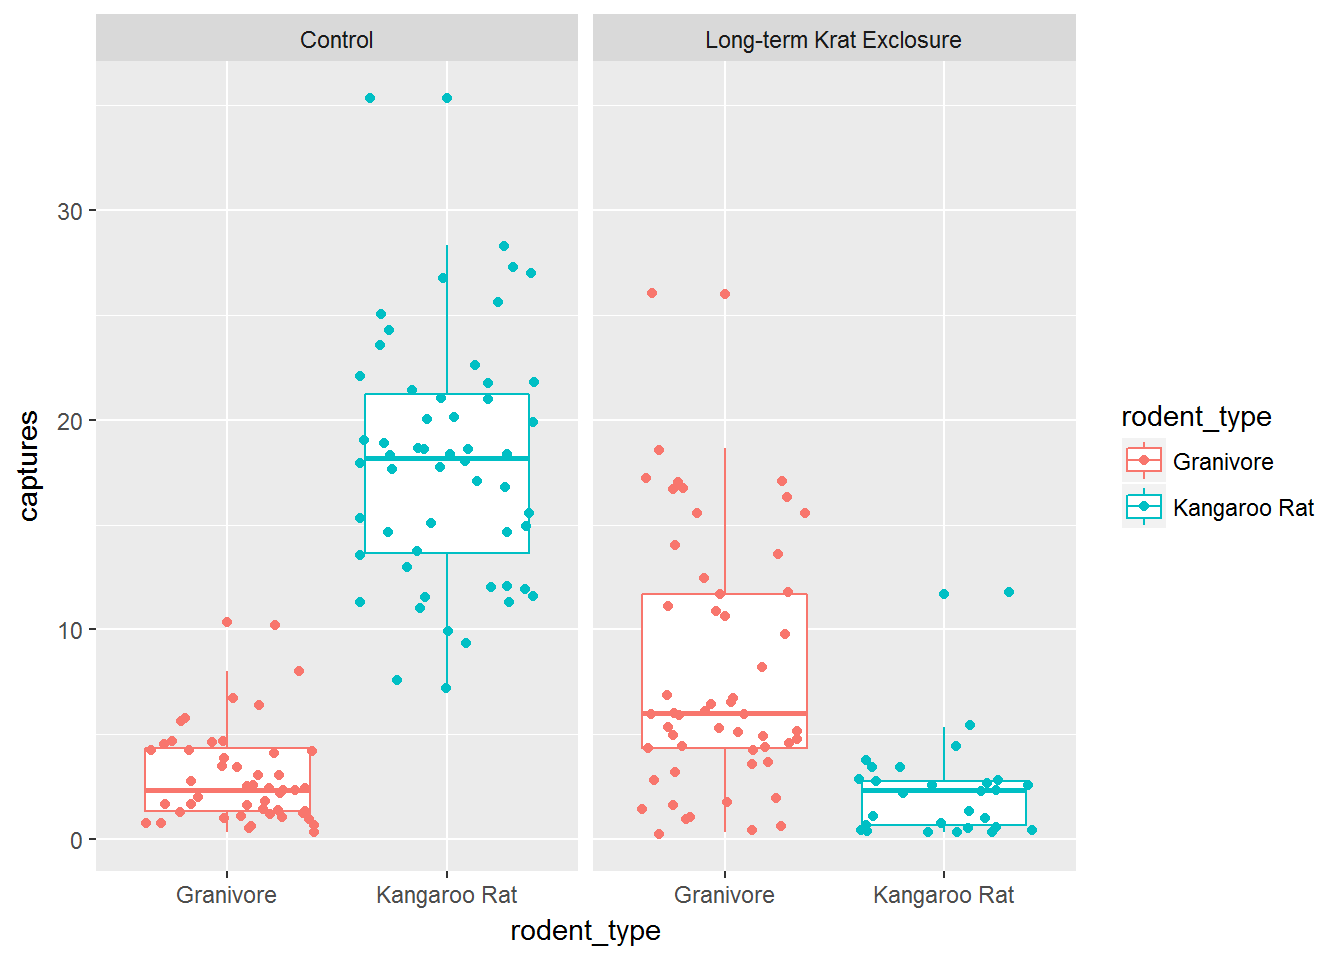
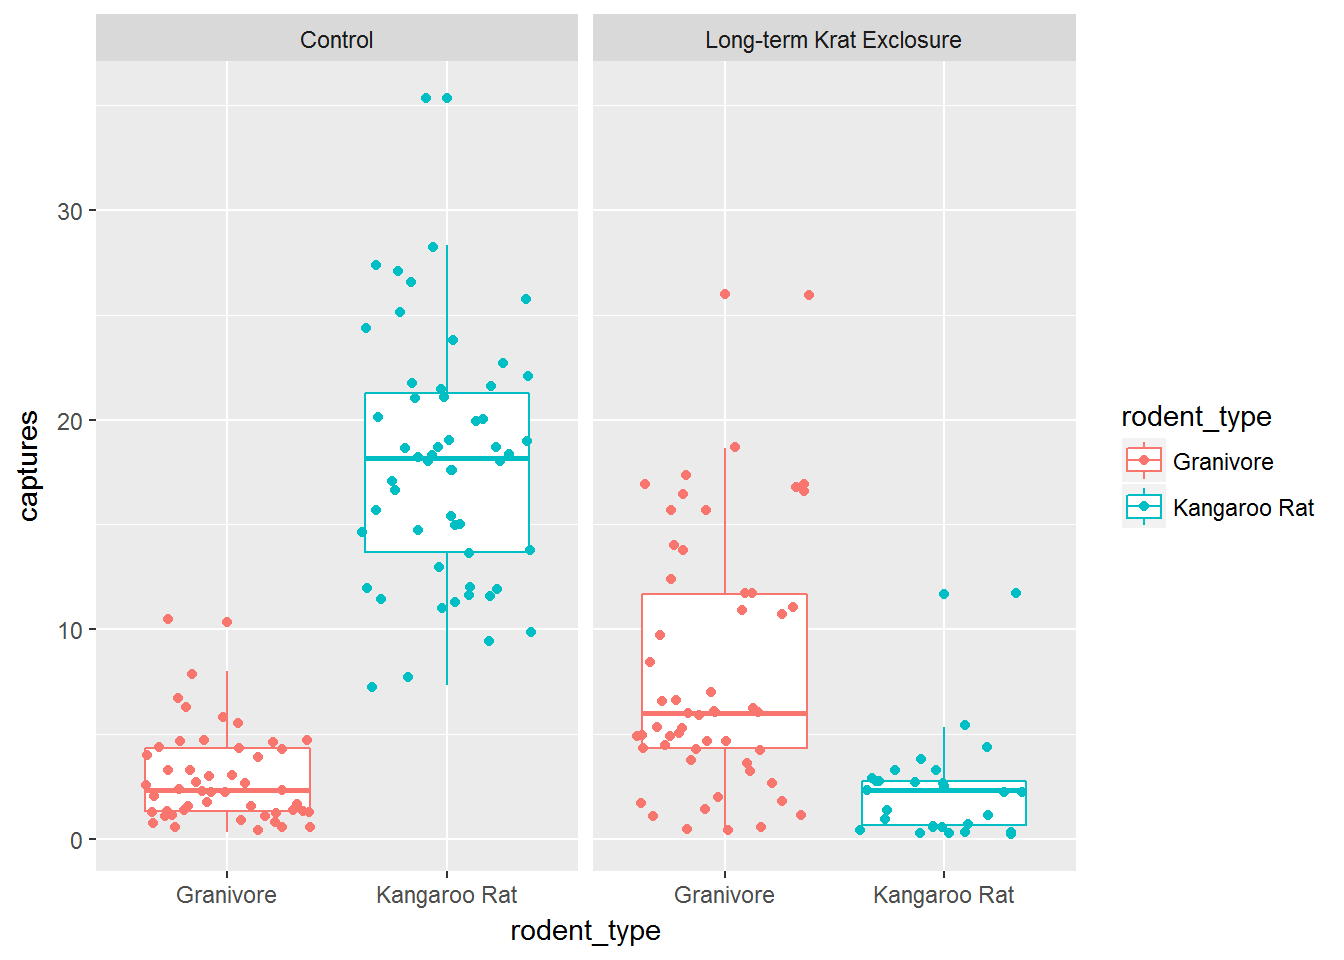
Amend R code across lessons to be consistent.

diff --git a/novice/R-ecology-lesson/06_export_and_communication.html b/novice/R-ecology-lesson/06_export_and_communication.html
@@ -509,27 +509,33 @@ surveys &lt;-<span class="st"> </span><span class="kw">read_csv</span>(<span cla
 <span class="co"># exclusion plots</span>
 exp_plots &lt;-<span class="st"> </span><span class="kw">c</span>(<span class="dv">8</span>,<span class="dv">11</span>,<span class="dv">12</span>,<span class="dv">14</span>,<span class="dv">3</span>,<span class="dv">15</span>,<span class="dv">19</span>,<span class="dv">21</span>)
 
-<span class="co"># Create a character vector for rodents of interest</span>
-rodents &lt;-<span class="st"> </span><span class="kw">c</span>(<span class="st">&quot;DM&quot;</span>,<span class="st">&quot;DO&quot;</span>,<span class="st">&quot;DS&quot;</span>,<span class="st">&quot;PP&quot;</span>,<span class="st">&quot;PF&quot;</span>,<span class="st">&quot;PE&quot;</span>,<span class="st">&quot;PM&quot;</span>,<span class="st">&quot;RM&quot;</span>)
-<span class="co"># Create a character vector for Kangeroo Rats by subsetting the first</span>
-<span class="co"># three elements of rodents</span>
-krats &lt;-<span class="st"> </span>rodents[<span class="dv">1</span>:<span class="dv">3</span>]
+<span class="co"># Create a character vector for rodents</span>
+<span class="co"># Create a named vector as a lookup table, where the names of each vector</span>
+<span class="co"># element correspond with the species_id, and the values of each vector </span>
+<span class="co"># element are either Kangaroo Rat or Granivore</span>
+lut &lt;-<span class="st"> </span><span class="kw">c</span>(<span class="st">&quot;DM&quot;</span> =<span class="st"> &quot;Kangaroo Rat&quot;</span>,
+         <span class="st">&quot;DO&quot;</span> =<span class="st"> &quot;Kangaroo Rat&quot;</span>,
+         <span class="st">&quot;DS&quot;</span> =<span class="st"> &quot;Kangaroo Rat&quot;</span>,
+         <span class="st">&quot;PP&quot;</span> =<span class="st"> &quot;Granivore&quot;</span>,
+         <span class="st">&quot;PF&quot;</span> =<span class="st"> &quot;Granivore&quot;</span>,
+         <span class="st">&quot;PE&quot;</span> =<span class="st"> &quot;Granivore&quot;</span>,
+         <span class="st">&quot;PM&quot;</span> =<span class="st"> &quot;Granivore&quot;</span>,
+         <span class="st">&quot;RM&quot;</span> =<span class="st"> &quot;Granivore&quot;</span>)
 
-<span class="co">#&#39;###Subset the data</span>
 surveys_subset &lt;-<span class="st"> </span>surveys %&gt;%<span class="st"> </span>
 <span class="st">  </span><span class="co"># Filter observations from 1977 to 1990, for the 3 K-rats and 5 granivores, </span>
 <span class="st">  </span><span class="co"># and for the 4 experimental plots</span>
 <span class="st">  </span><span class="kw">filter</span>(year &lt;=<span class="st"> </span><span class="dv">1990</span>,                    
-         species_id %in%<span class="st"> </span>rodents,         
+         species_id %in%<span class="st"> </span><span class="kw">names</span>(lut),         
          plot_id %in%<span class="st"> </span>exp_plots) %&gt;%<span class="st">      </span>
-<span class="st">  </span><span class="co"># Make variable to indicate whether species is K-rat or Granivore</span>
-<span class="st">  </span><span class="kw">mutate</span>(<span class="dt">rodent_type =</span> <span class="kw">if_else</span>(species_id %in%<span class="st"> </span>krats, <span class="st">&quot;Kangeroo Rat&quot;</span>,
-                               <span class="st">&quot;Granivore&quot;</span>),
+<span class="st">  </span><span class="co"># Use lookup table to create variable to indicate whether species is K-rat </span>
+<span class="st">  </span><span class="co"># or Granivore</span>
+<span class="st">  </span><span class="kw">mutate</span>(<span class="dt">rodent_type =</span> lut[species_id],
          <span class="co"># Make combined date variable</span>
          <span class="dt">date =</span> lubridate::<span class="kw">dmy</span>(<span class="kw">sprintf</span>(<span class="st">&#39;%02d%02d%04d&#39;</span>, 
                                        day, month, year)),
-         <span class="co"># Add the quartley period</span>
-         <span class="dt">quarter =</span> lubridate::<span class="kw">quarter</span>(date,<span class="dt">with_year =</span> <span class="ot">TRUE</span>)) %&gt;%<span class="st"> </span>
+  <span class="co"># Add the quartley period</span>
+  <span class="dt">quarter =</span> lubridate::<span class="kw">quarter</span>(date,<span class="dt">with_year =</span> <span class="ot">TRUE</span>)) %&gt;%<span class="st"> </span>
 <span class="st">  </span><span class="co"># Drop unwanted variables</span>
 <span class="st">  </span><span class="kw">select</span>(-sex,-hindfoot_length,-weight)
 
